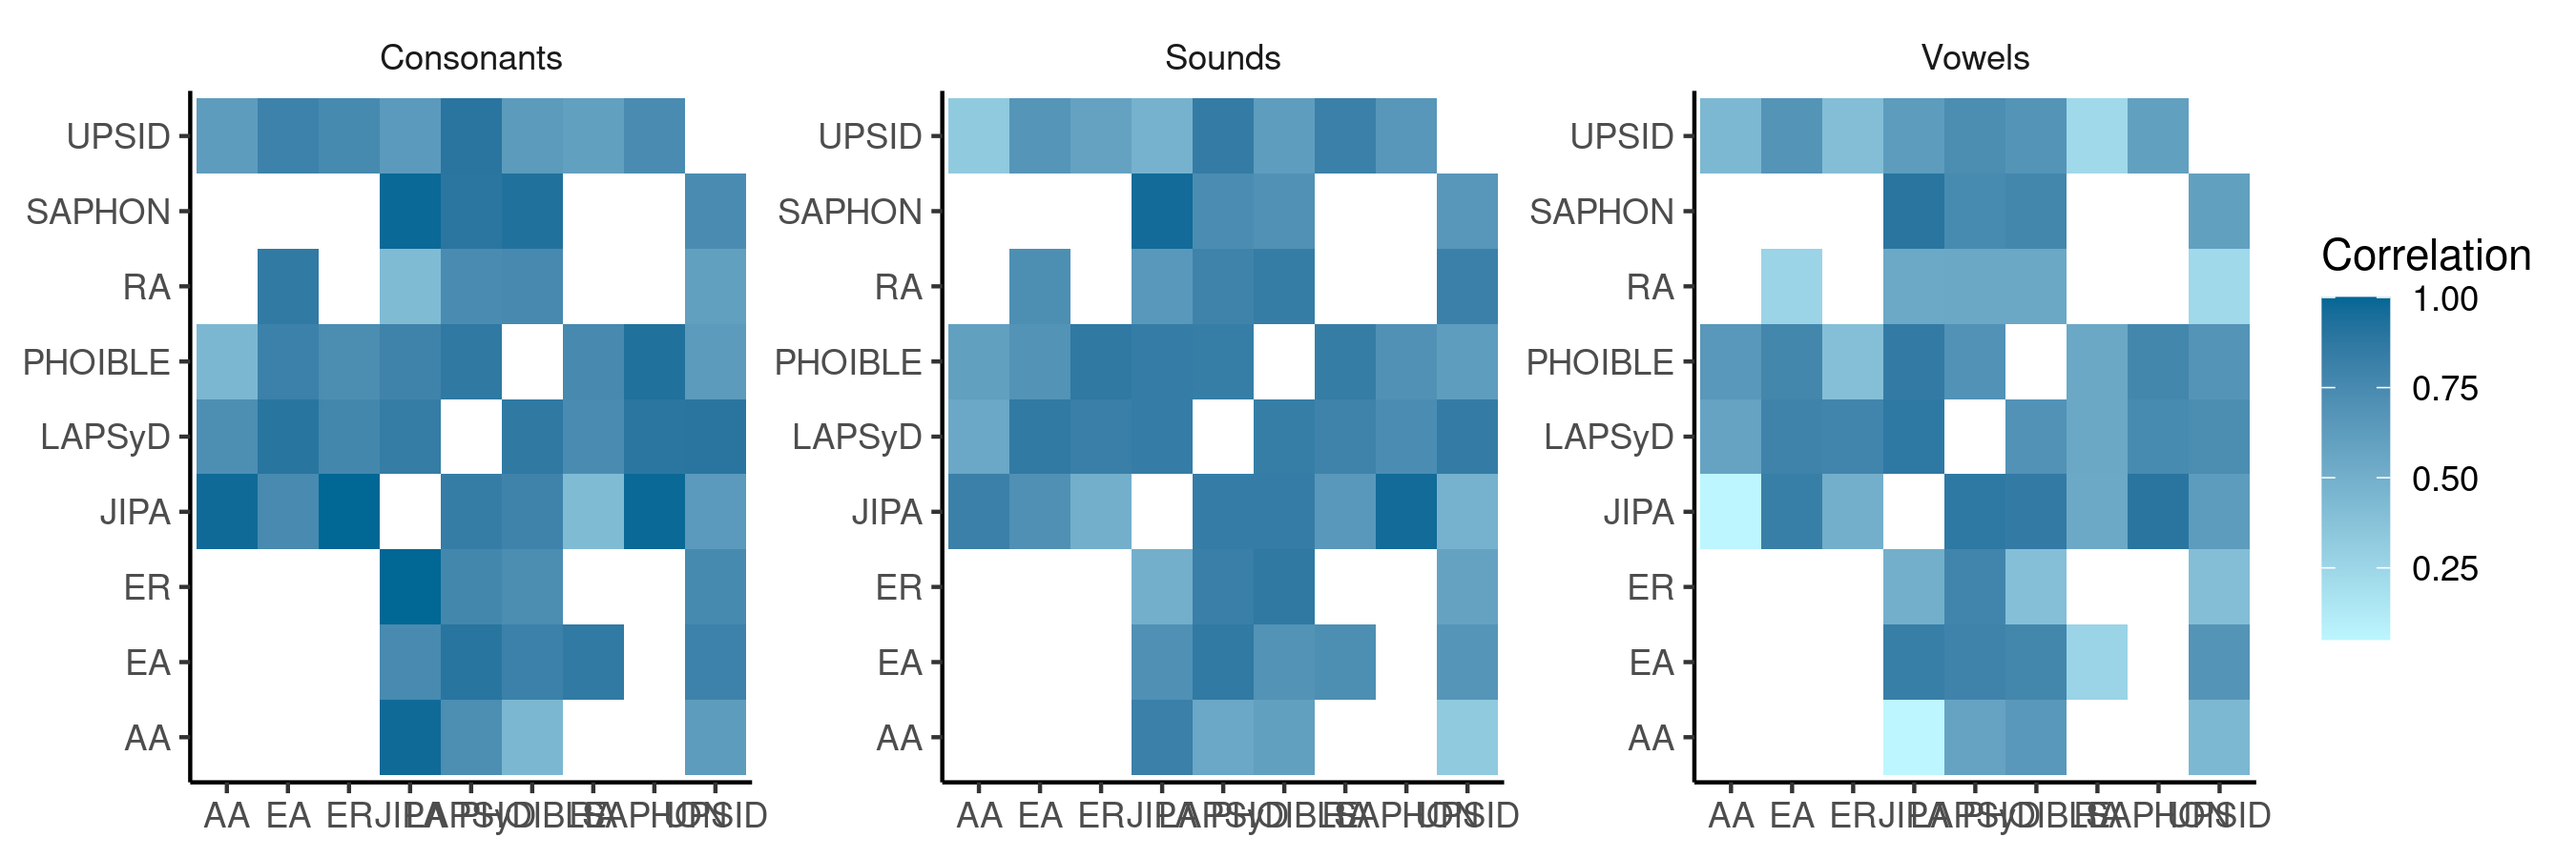
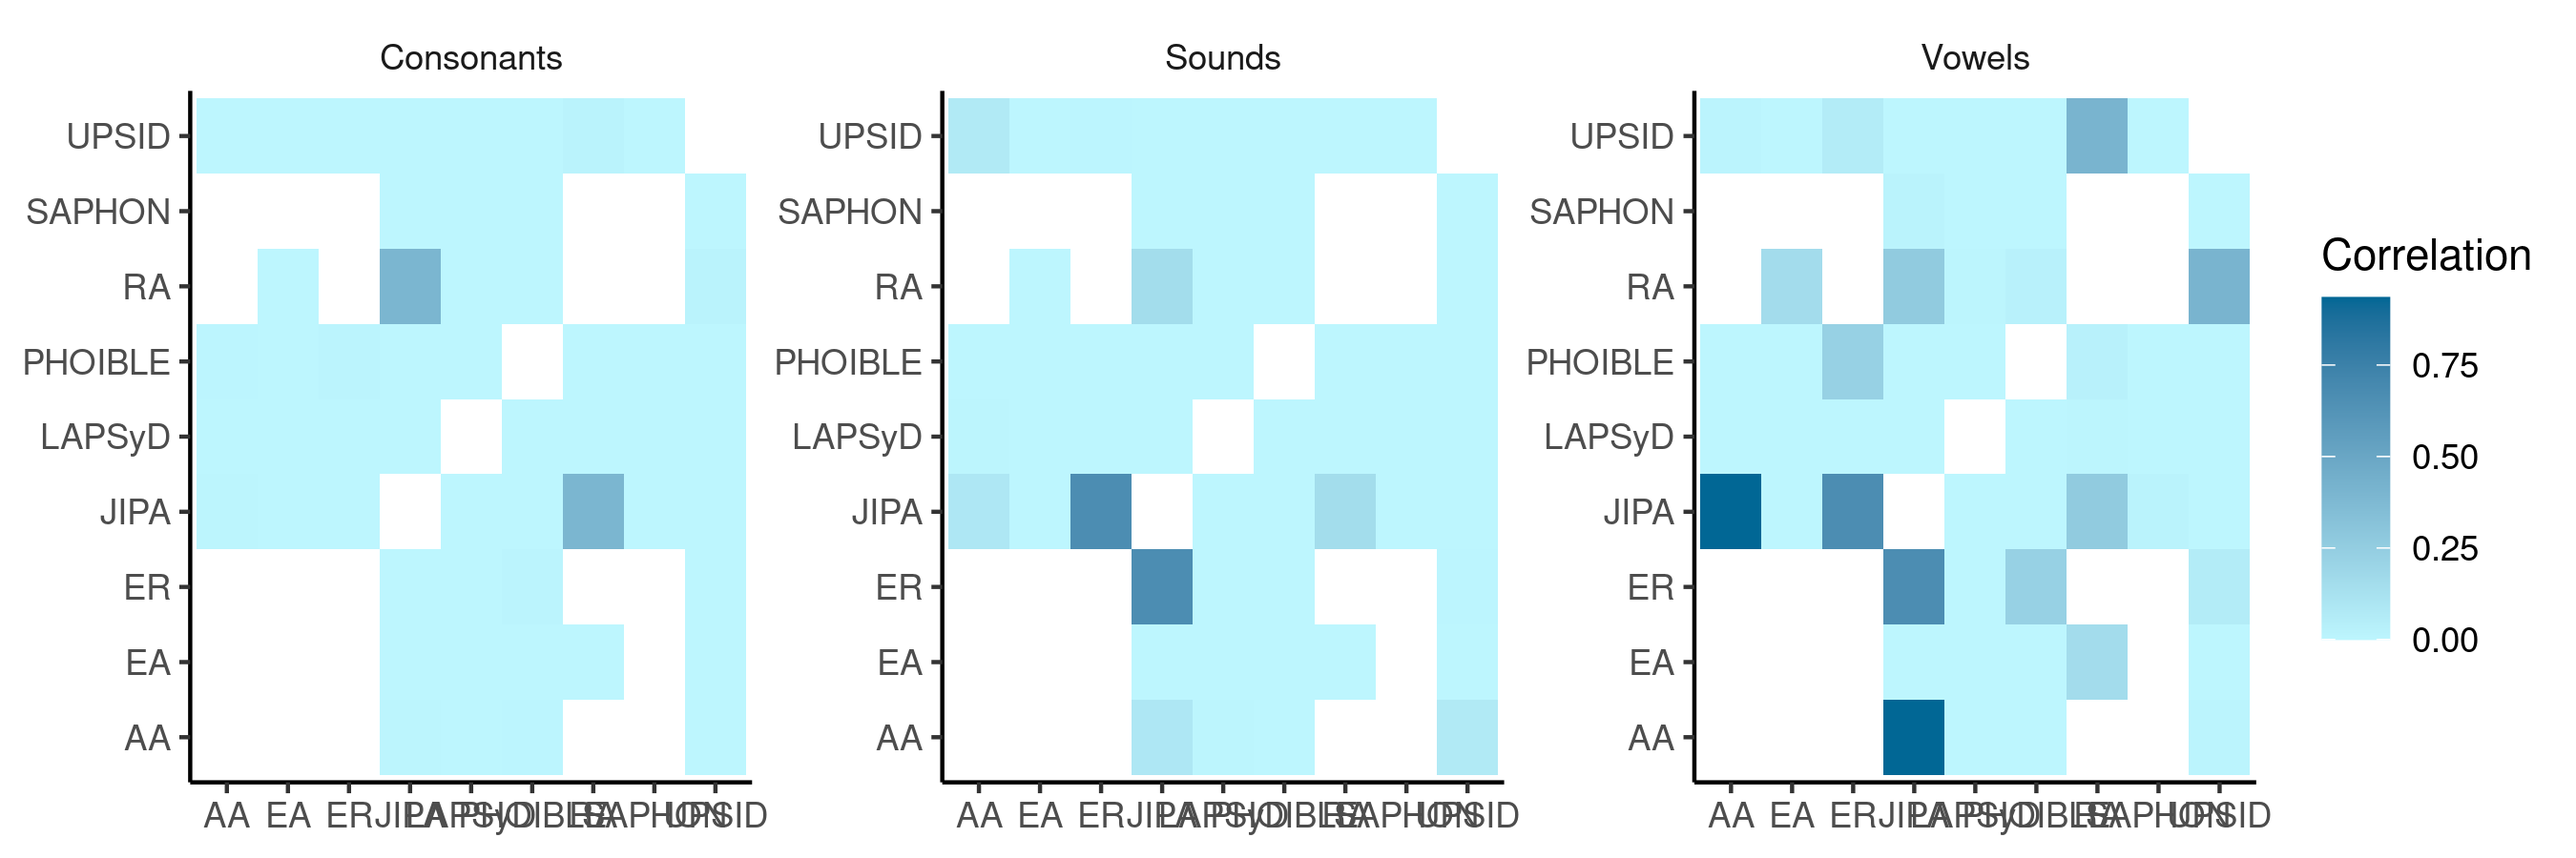
Fix error in spearman output attribution

diff --git a/compare.py b/compare.py
@@ -243,7 +243,7 @@ for (idx, nameA, dataA, dictA), (jdx, nameB, dataB, dictB) in progressbar(
                 lstB += [vB]
                 values += [gcode]
         if values:
-            p, r = spearmanr(lstA, lstB)
+            r, p = spearmanr(lstA, lstB)
             d = deltas(lstA, lstB)
             if param in ["Sounds"]:
                 strict = compare_inventories(dictA, dictB, aspects=[param.lower()])
@@ -323,7 +323,15 @@ with UnicodeWriter("output/results.summary.csv") as writer:
     header = storage["summary"][0].keys()
     writer.writerow(header)
     for row in storage["summary"]:
+        # Make a temporary copy of row, using 6 decimal places for floats
+        row = dict(row)
+        for k, v in row.items():
+            if isinstance(v, float):
+                row[k] = round(v, 8)
+
+        # Write the row to disk
         writer.writerow([row[h] for h in header])
+
 
 # Names of all datasets
 datasets = [
